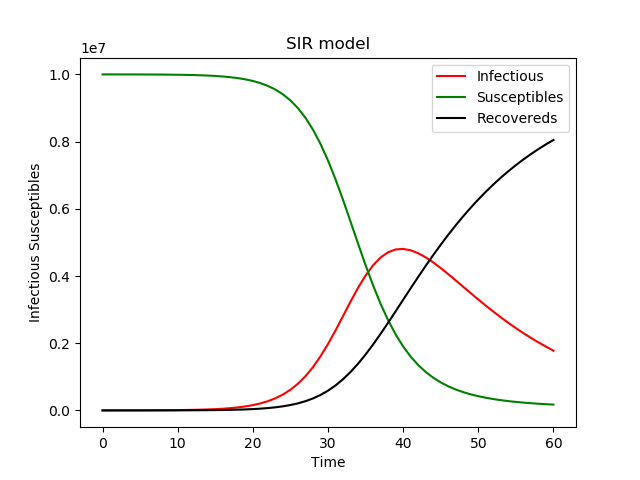
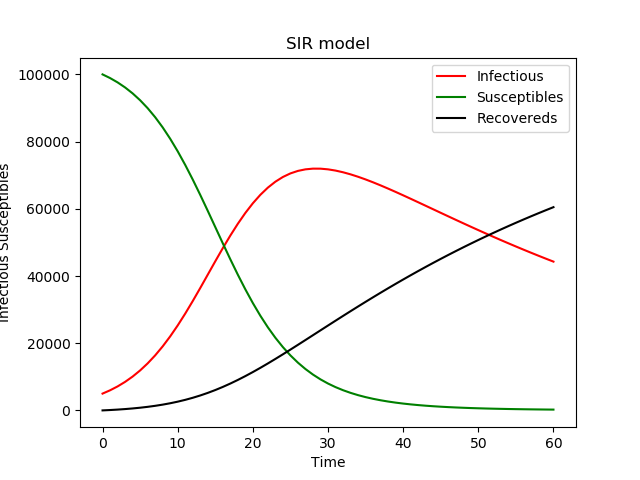
修改参数

diff --git a/SIR.py b/SIR.py
@@ -9,12 +9,12 @@ import matplotlib.pyplot as pl
 import pandas as pd
 
 
-beta = 3.6e-8
-gamma = 0.07142
+beta = 2e-6
+gamma = 0.02
 TS = 1.0
 ND = 60.0
-S0 = 10000000
-I0 = 500
+S0 = 100000
+I0 = 5000
 INPUT = [S0, I0, 0.0]
 
 
@@ -50,6 +50,9 @@ if __name__ == "__main__":
     pl.ylabel("Infectious Susceptibles")
     pl.savefig("result.png")
 
+    print("begin Infectious=")
+    print(RES[:, 1])
+
     # 读取数据
     data = pd.read_csv("data.csv", index_col=["date"])
     data["现有感染者"] = data["感染者"] - data["死亡"] - data["治愈"]
@@ -69,6 +72,7 @@ if __name__ == "__main__":
     pl.ylabel("Infectious Susceptibles")
     pl.savefig("realdata.png")
 
+'''
     # # 计算β值，用确诊病例除以密切接触者人数
     gammaguess = (data["治愈"]+data["死亡"])/data["感染者"]
     print(gammaguess)
@@ -120,7 +124,7 @@ if __name__ == "__main__":
                 bestRes = RES
                 print("S0=%d beta=%f minErr=%f" % (S, b, errsum))
 
-    print("S0 = %d β = %f" % (minS0, minBeta))
+    print("S0 = %d β = %f" % (minS0, minBeta))'''
 
 print("预测最大感染人数:%d 位置:%d" % (RES[:, 1].max(), np.argmax(RES[:, 1])))
 # 将预测值与真实值画到一起
